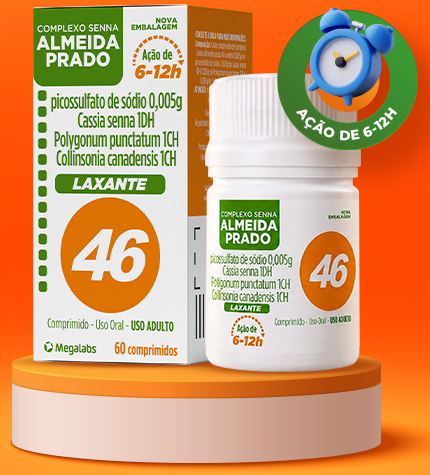
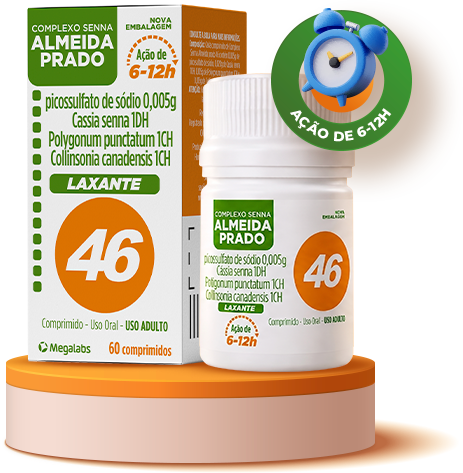
Topo mobile com produtos de fundo transparente
- hero-geleia.png e hero-senna.png trocados pelas versões transparentes
  (sem o recorte de fundo visível)
- Pílulas do topo mobile cabem numa linha: fonte calculada pela largura
  da coluna (container query, cqi)

diff --git a/style.css b/style.css
@@ -215,6 +215,9 @@ ul{list-style:none;margin:0;padding:0}
   .banner{display:none}
   .hero{display:block;padding:50px 0 70px}
   .hero__grid{grid-template-columns:1fr;gap:50px}
+  /* "Suplemento alimentar a base de fibras" ocupa ~20.2em: fonte acompanha a tela para caber numa linha */
+  .hero__product{container-type:inline-size}
+  .hero .pill{padding:9px 18px;font-size:min(.95rem,calc((100cqi - 36px) / 21))}
   .badge46{width:110px;font-size:3rem}
   .badge46--md{width:84px;font-size:2.3rem}
   /* o nome precisa caber numa linha: fonte acompanha a largura da tela (14–16px) */
